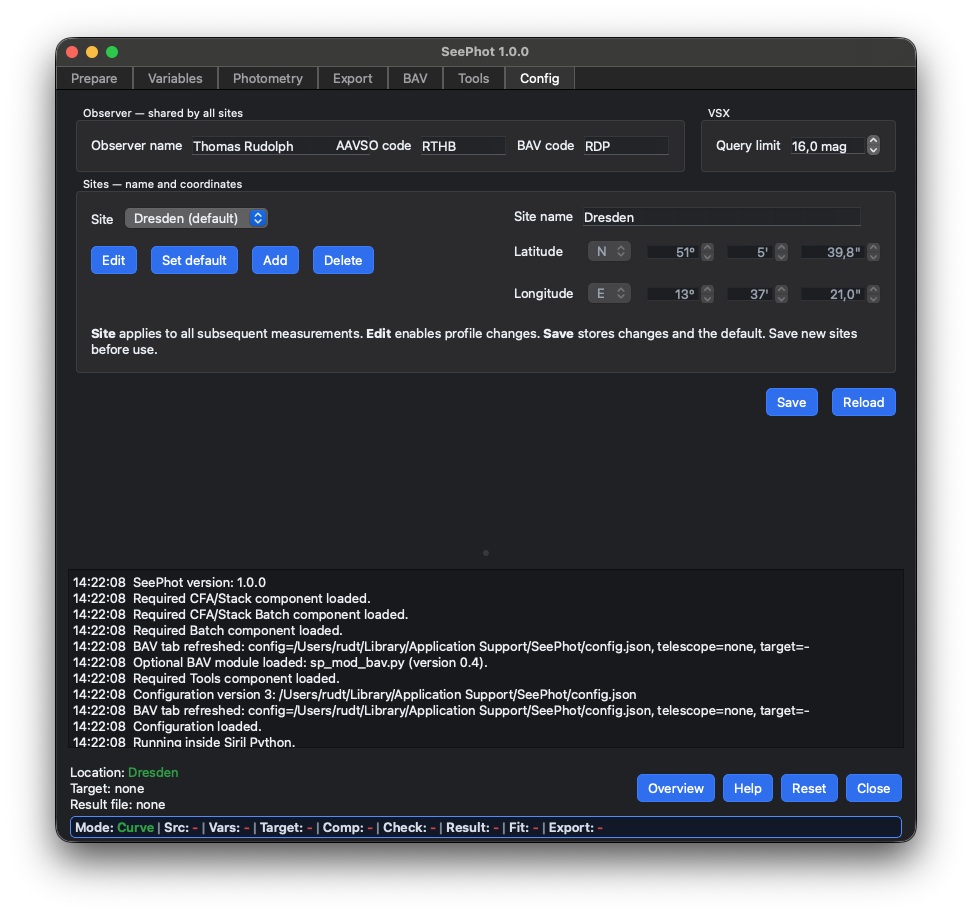
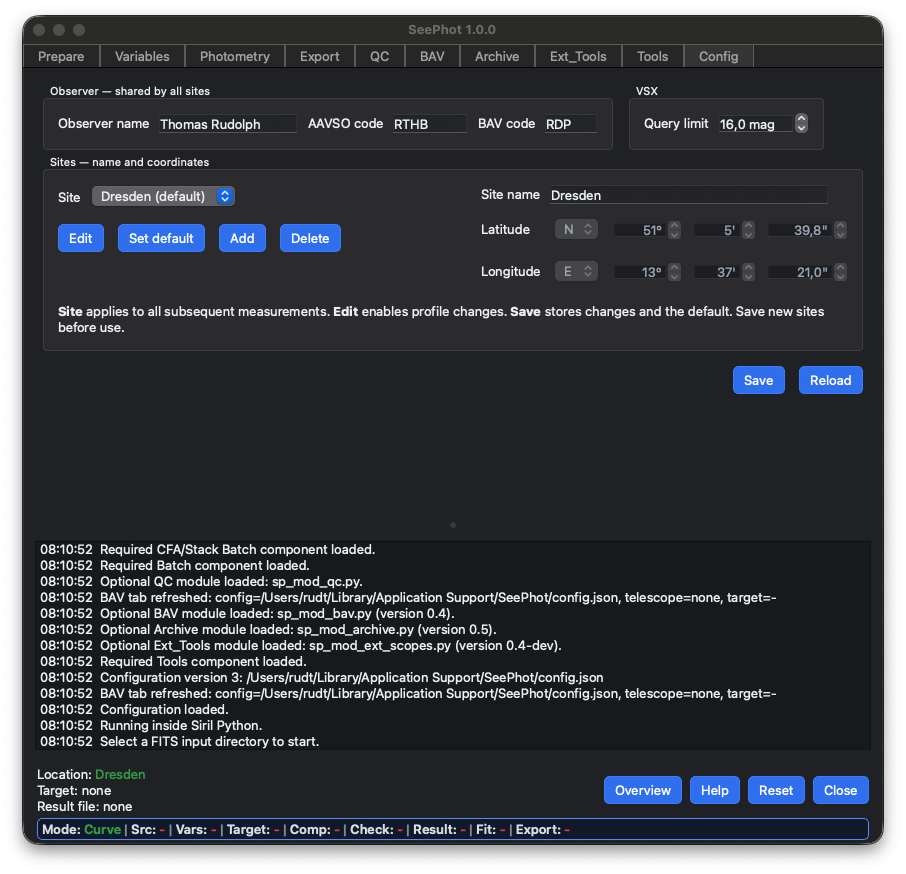
SeePhot 1.0.1
Fix plate-solving hints for sexagesimal OBJCTRA/OBJCTDEC headers, adjust
Config observer field widths, and update the Config screenshot and release
documentation. SeePhot CFA remains unchanged at 1.0.0.

Validation: 136 focused tests passed for plate-solving hints, configuration,
and release actions. All 14 bundle files match the tested Main snapshot;
all 12 Python files compile and both Overview PNGs are readable. Ruff
reports the same 67 findings as v1.0.0.

Changed region(s): [[0.0, 0.0, 0.989, 0.9886], [0.34, 0.1236, 0.4945, 0.1854], [0.5254, 0.1236, 0.649, 0.1854]]

diff --git a/SeePhot_Main.py b/SeePhot_Main.py
@@ -50,7 +50,7 @@ warnings.filterwarnings(
 import sirilpy as s  # noqa: E402
 
 
-SCRIPT_VERSION = "1.0.0"
+SCRIPT_VERSION = "1.0.1"
 SIRILPY_REQUIRES = ">=1.0.13"
 APP_DISPLAY_NAME = "SeePhot"
 GITHUB_LATEST_RELEASE_API = "https://api.github.com/repos/Aquarius58/SeePhot/releases/latest"
@@ -1593,16 +1593,36 @@ def read_float_header_value(header: fits.Header, keys: tuple[str, ...], label: s
 def read_plate_solve_center_deg(header: fits.Header) -> tuple[float, float]:
     """Return the approximate image center in decimal degrees.
 
+    OBJCTRA/OBJCTDEC sexagesimal strings use hours/degrees respectively.
+    Numeric values retain their existing decimal-degree interpretation.
     AstroDrive/OSL headers store ``RA`` in decimal hours while also supplying
     the same telescope position as ``RA-TEL`` in decimal degrees.  Recognize
     that relationship explicitly; otherwise retain SeePhot's established
     interpretation of numeric ``RA``/``DEC`` values as decimal degrees.
     """
 
-    ra_value = read_float_header_value(header, ("RA", "OBJCTRA"), "right ascension")
-    dec_value = read_float_header_value(header, ("DEC", "OBJCTDEC"), "declination")
+    def read_coordinate(primary_key: str, object_key: str, label: str, unit) -> float:
+        if primary_key in header:
+            return read_float_header_value(header, (primary_key,), label)
+        if object_key not in header:
+            raise KeyError(
+                f"Missing FITS header value for {label}: tried {primary_key}, {object_key}"
+            )
+        value = header[object_key]
+        try:
+            return float(value)
+        except (TypeError, ValueError):
+            try:
+                return float(Angle(value, unit=unit).degree)
+            except (TypeError, ValueError) as exc:
+                raise ValueError(
+                    f"Header key {object_key} is not a valid {label}: {value!r}"
+                ) from exc
 
-    if "RA-TEL" in header and "DEC-TEL" in header:
+    ra_value = read_coordinate("RA", "OBJCTRA", "right ascension", u.hourangle)
+    dec_value = read_coordinate("DEC", "OBJCTDEC", "declination", u.deg)
+
+    if all(key in header for key in ("RA", "DEC", "RA-TEL", "DEC-TEL")):
         try:
             telescope_ra_deg = float(header["RA-TEL"])
             telescope_dec_deg = float(header["DEC-TEL"])

diff --git a/sp_mod_config.py b/sp_mod_config.py
@@ -504,14 +504,17 @@ def create_config_tab(context: dict | None = None):
         if section == "site":
             edit.setFixedWidth(280)
         elif key == "name":
-            edit.setFixedWidth(180)
+            edit.setFixedWidth(140)
         else:
-            edit.setFixedWidth(edit.fontMetrics().horizontalAdvance("MMMMMM") + 20)
+            code_sample = "MMMMM" if section == "observer" else "MMM"
+            edit.setFixedWidth(edit.fontMetrics().horizontalAdvance(code_sample) + 20)
         edits[section, key] = edit
         if section == "site":
             coordinates_form.addRow(label, edit)
         else:
-            observer_row.addWidget(QLabel(label))
+            field_label = QLabel(label)
+            field_label.setMinimumWidth(field_label.sizeHint().width())
+            observer_row.addWidget(field_label)
             observer_row.addWidget(edit)
     observer_row.addStretch(1)
     site_selector = QComboBox()

diff --git a/CHANGELOG.md b/CHANGELOG.md
@@ -1,5 +1,12 @@
 # Changelog
 
+## 1.0.1 - 2026-11-04
+
+- Fixed plate-solving coordinate hints for FITS headers containing
+  sexagesimal OBJCTRA and OBJCTDEC values.
+- Adjusted Config observer field widths to keep labels readable.
+- Updated the Config screenshot in the README.
+
 ## 1.0.0 - 2026-11-02
 
 - Added shared observer and multi-site configuration, including site

diff --git a/README.md b/README.md
@@ -34,7 +34,7 @@ images. It can be opened from SeePhot or used independently in Siril.
 
 ## Current Release
 
-- SeePhot Main: `1.0.0`
+- SeePhot Main: `1.0.1`
 - SeePhot CFA: `1.0.0`
 
 ## Release Bundle
